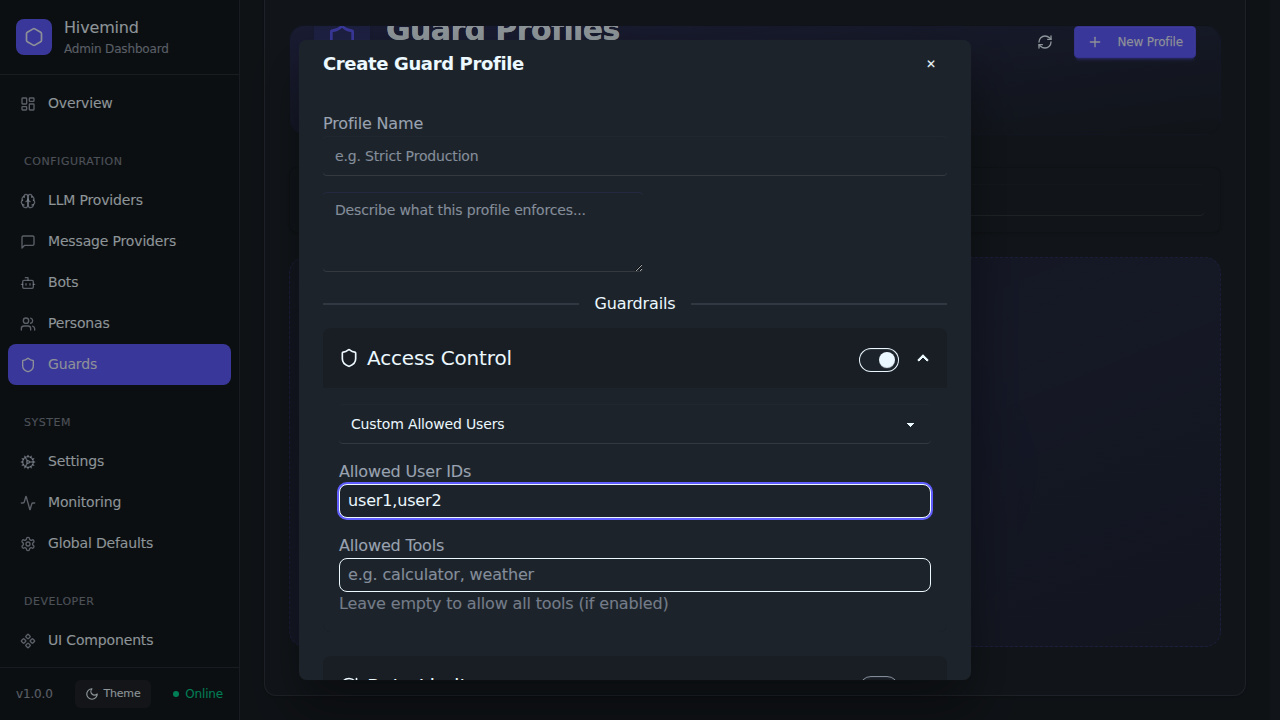
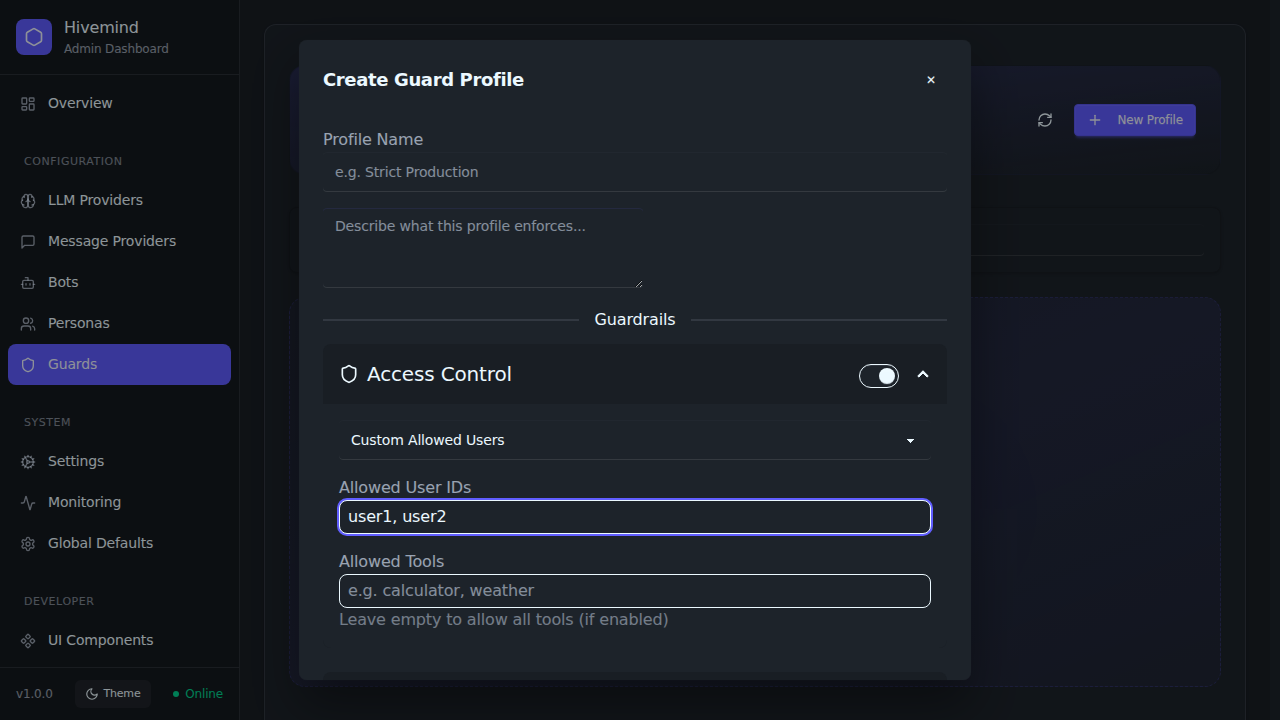
Rebase resolve (#1714)

diff --git a/src/client/src/components/Common/CommaSeparatedInput.tsx b/src/client/src/components/Common/CommaSeparatedInput.tsx
@@ -74,24 +74,16 @@ export const CommaSeparatedInput: React.FC<CommaSeparatedInputProps> = ({
       return;
     }
 
-    // Split by comma, preserving empty strings so we can see if there is trailing text
-    const parts = textToCommit.split(',');
+    const current = textToCommit
+      .split(',')
+      .map(s => s.trim())
+      .filter(Boolean);
 
-    // The trailing text is the last part after the last comma
-    const trailingText = parts.length > 1 ? parts.pop() || '' : '';
-
-    // The items to commit are the parts before the last comma
-    const itemsToCommit = parts.map(s => s.trim()).filter(Boolean);
-
-    commitItems(itemsToCommit, trailingText);
-  };
-
-  const commitItems = (items: string[], trailingText: string) => {
     const next = [...value];
     let changed = false;
     let localError: string | null = null;
 
-    for (const item of items) {
+    for (const item of current) {
       if (validate) {
         const validationError = validate(item);
         if (validationError) {
@@ -114,7 +106,7 @@ export const CommaSeparatedInput: React.FC<CommaSeparatedInputProps> = ({
         pushToHistory(next);
         onChange(next);
       }
-      setInputValue(trailingText);
+      setInputValue('');
       setShowSuggestions(false);
     }
   };
@@ -174,15 +166,18 @@ export const CommaSeparatedInput: React.FC<CommaSeparatedInputProps> = ({
   };
 
   const handleInputChange = (e: React.ChangeEvent<HTMLInputElement>) => {
-    const val = e.target.value;
-    if (val.includes(',')) {
-      commitInput(val);
-    } else {
-      setInputValue(val);
-      setShowSuggestions(true);
-      if (internalError) {
-        setInternalError(null);
-      }
+    let newValue = e.target.value;
+
+    // Auto-insert space after comma if typed, but only if we are typing (length increased)
+    // To avoid the backspace trap, we check if the new value is longer than the old value
+    if (newValue.length > inputValue.length && newValue.endsWith(',') && !newValue.endsWith(', ')) {
+      newValue = newValue + ' ';
+    }
+
+    setInputValue(newValue);
+    setShowSuggestions(true);
+    if (internalError) {
+      setInternalError(null);
     }
   };
 
@@ -249,6 +244,7 @@ export const CommaSeparatedInput: React.FC<CommaSeparatedInputProps> = ({
         {!disabled && canUndo && (
           <button
             type="button"
+            onMouseDown={(e) => e.preventDefault()}
             onClick={handleUndo}
             className="p-1 mx-1 rounded-full text-base-content/40 hover:text-primary hover:bg-primary/10 focus:outline-none transition-colors"
             title="Undo last change (Ctrl+Z)"
@@ -263,6 +259,7 @@ export const CommaSeparatedInput: React.FC<CommaSeparatedInputProps> = ({
         {!disabled && value.length > 0 && (
           <button
             type="button"
+            onMouseDown={(e) => e.preventDefault()}
             onClick={handleClearAll}
             className="p-1 mx-1 rounded-full text-base-content/40 hover:text-error hover:bg-error/10 focus:outline-none transition-colors"
             title="Clear all"

diff --git a/src/client/src/pages/GuardsPage.tsx b/src/client/src/pages/GuardsPage.tsx
@@ -6,7 +6,7 @@ import Modal, { ConfirmModal } from '../components/DaisyUI/Modal';
 import PageHeader from '../components/DaisyUI/PageHeader';
 import SearchFilterBar from '../components/SearchFilterBar';
 import EmptyState from '../components/DaisyUI/EmptyState';
-import { LoadingSpinner, LoadingSkeletonCard } from '../components/DaisyUI/Loading';
+import { LoadingSpinner } from '../components/DaisyUI/Loading';
 import { CommaSeparatedInput } from '../components/Common/CommaSeparatedInput';
 import Input from '../components/DaisyUI/Input';
 import Textarea from '../components/DaisyUI/Textarea';
@@ -195,7 +195,7 @@ const GuardsPage: React.FC = () => {
       <PageHeader
         title="Guard Profiles"
         description="Manage security and access control profiles for bots"
-        icon={<Shield className="w-6 h-6" />}
+        icon={<Shield />}
         actions={
           <div className="flex gap-2">
             <button onClick={fetchProfiles} className="btn btn-ghost btn-sm" disabled={loading} title="Refresh">
@@ -216,10 +216,8 @@ const GuardsPage: React.FC = () => {
       />
 
       {loading && !editingProfile ? (
-        <div className="grid grid-cols-1 md:grid-cols-2 lg:grid-cols-3 gap-6">
-          <LoadingSkeletonCard />
-          <LoadingSkeletonCard />
-          <LoadingSkeletonCard />
+        <div className="flex items-center justify-center py-12">
+          <LoadingSpinner size="lg" />
         </div>
       ) : profiles.length === 0 ? (
         <EmptyState
